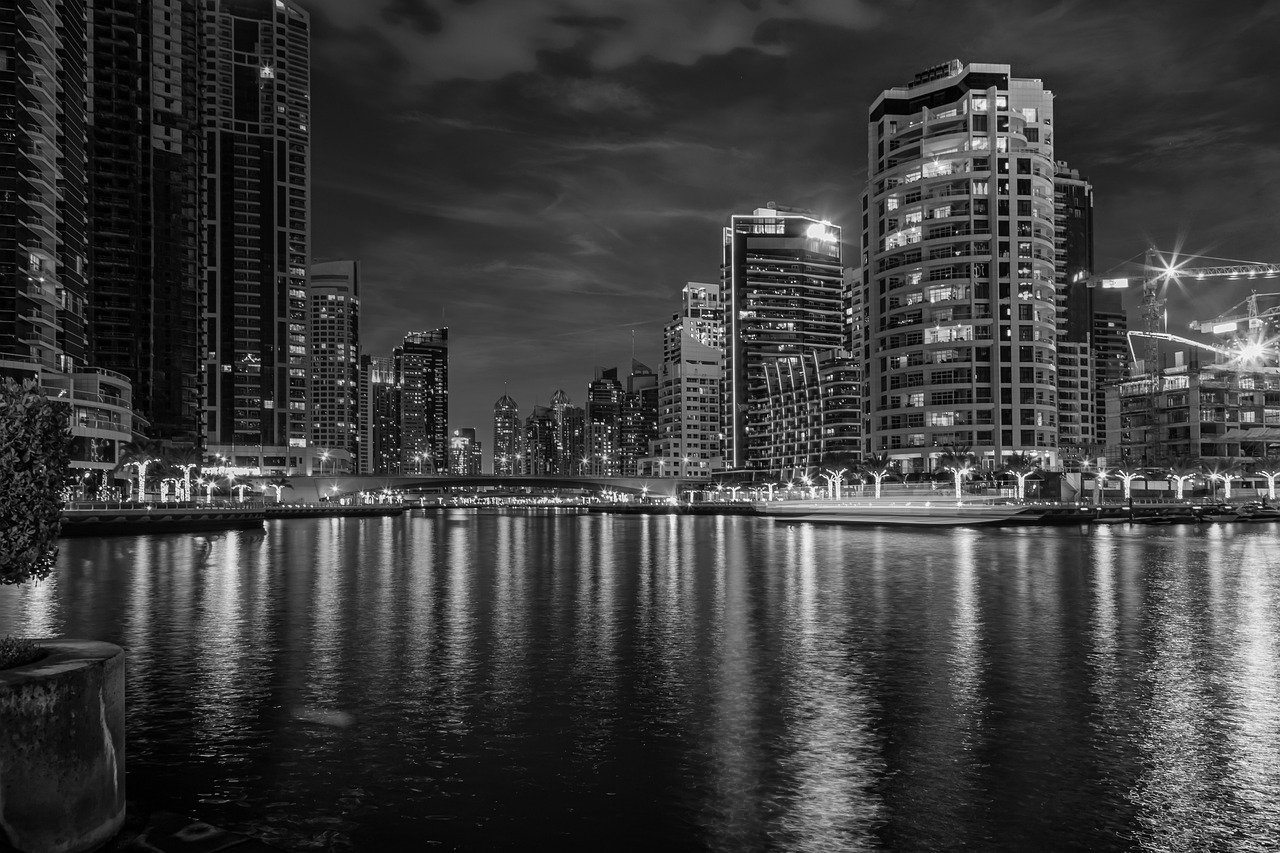
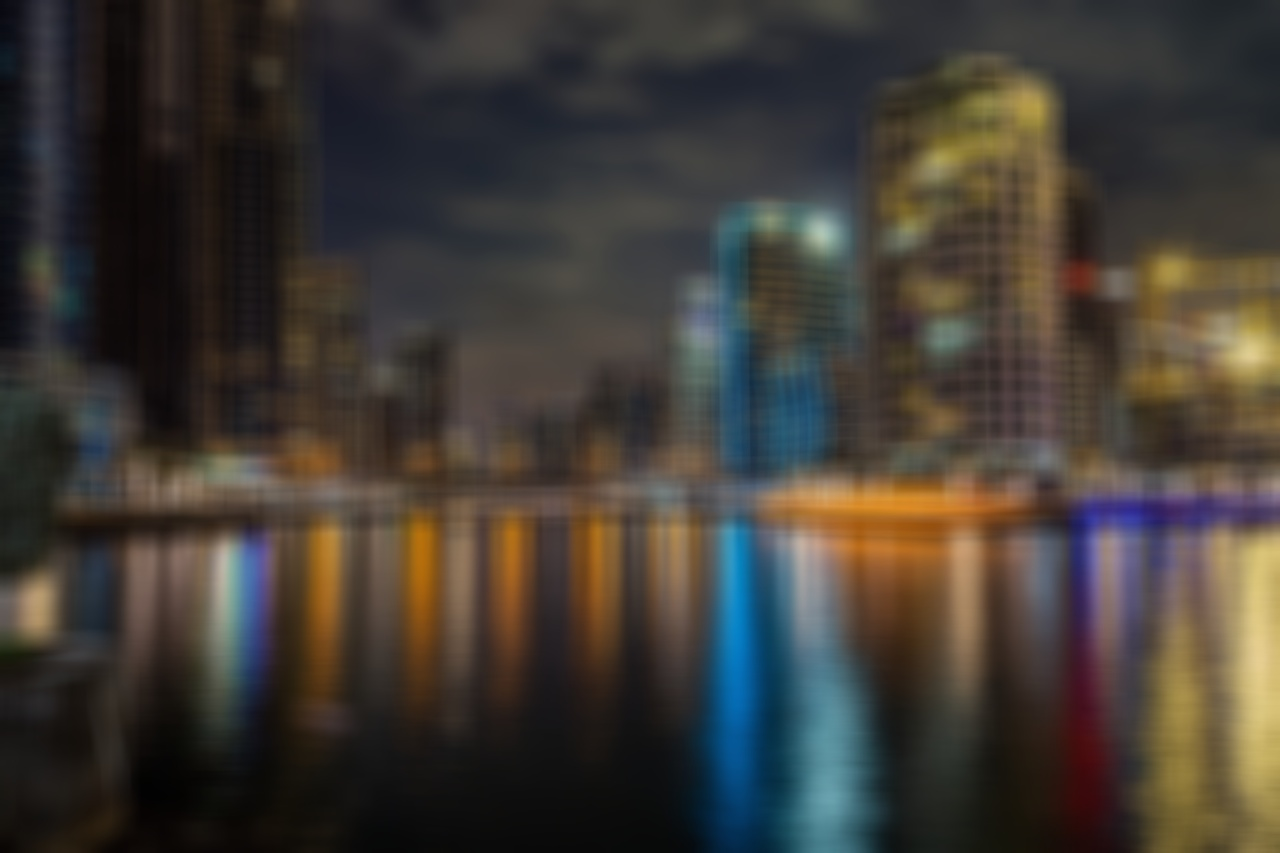
😵💫 - Add Blur

diff --git a/controller/mainController.py b/controller/mainController.py
@@ -9,9 +9,14 @@ This is the controller that will be used to control the program.
 # Get all the images from the folder
 images = getImagesController.get_images()
 
-print("Images: ", images)
-
 for (i, image) in enumerate(images):
     gray_image = filterController.to_grayscale(image)
     cv2.imwrite(image.replace("images", "output"), gray_image)
-    print("[INFO] processed image {}/{}".format(i + 1, len(images)))
+    print("[INFO] processed image to grayscale {}/{}".format(i + 1, len(images)))
+
+
+for (i, image) in enumerate(images):
+    blur_image = filterController.to_blur(image, 3)
+    cv2.imwrite(image.replace("images", "output"), blur_image)
+    print("[INFO] processed image to blur {}/{}".format(i + 1, len(images)))
+

diff --git a/controller/filterController.py b/controller/filterController.py
@@ -15,3 +15,17 @@ def to_grayscale(path):
     img_path = cv2.imread(path)
     gray = cv2.cvtColor(img_path, cv2.COLOR_BGR2GRAY)
     return gray
+
+
+def to_blur(path, value):
+    """
+    Blur the image.
+    :param path: path to the image
+    :param value: value of the blur
+    :return: blurred image
+    """
+    # Blur the image.
+    value = value * 10
+    img_path = cv2.imread(path)
+    blur = cv2.blur(img_path, (value, value))
+    return blur
